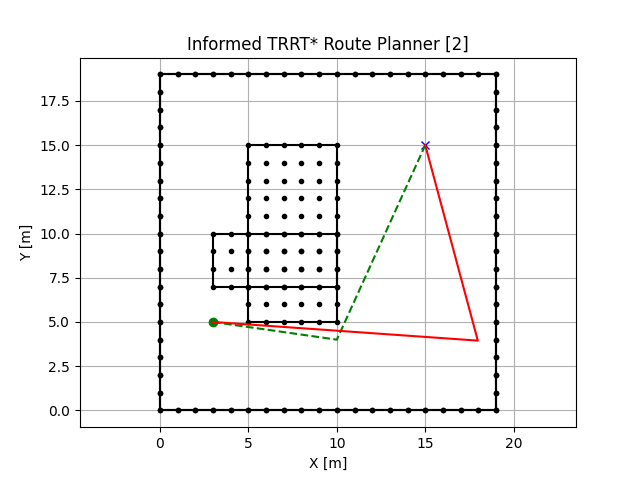
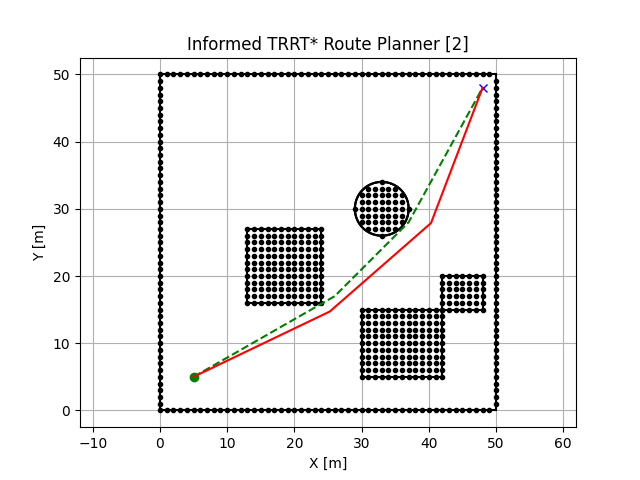
Add: map config file using conf option

diff --git a/map/fixed_grid_map.py b/map/fixed_grid_map.py
@@ -1,31 +1,52 @@
 import matplotlib.pyplot as plt
-import math  # Import math for square root calculations
+import math
+import argparse
+import json
 
 from map.grid_map import GridMap
 
 class FixedGridMap(GridMap):
-    def __init__(self, width=20, height=20):
+    def __init__(self, width=20, height=20, obstacles=None):
         super().__init__(width=width, height=height)
 
+        if obstacles:
+            for obstacle in obstacles:
+                if obstacle['type'] == 'rectangle':
+                    # obstacle['coordinates'] is expected to be a list of four numbers [min_x, min_y, max_x, max_y]
+                    coords = obstacle['coordinates']
+                    self.add_fixed_rectangle(coords[0], coords[1], coords[2], coords[3])
+                elif obstacle['type'] == 'circle':
+                    # obstacle['parameters'] is expected to be a list [center_x, center_y, radius]
+                    params = obstacle['parameters']
+                    self.add_fixed_circle(params[0], params[1], params[2])
+                else:
+                    print(f"Unknown obstacle type: {obstacle['type']}")
+        else:
+            # Default obstacles if no configuration is provided
+            self.add_fixed_rectangle(13, 16, 24, 27)
+            self.add_fixed_rectangle(30, 5, 42, 15)
+            self.add_fixed_rectangle(42, 15, 48, 20)
+            self.add_fixed_circle(33, 30, 4)
+
     def add_fixed_rectangle(self, min_x, min_y, max_x, max_y):
-        # 장애물 좌표 추가
+        # Add obstacle coordinates
         fixed_obstacles = [
             [(x, y) for x in range(min_x, max_x + 1) for y in range(min_y, max_y + 1)]
         ]
         
-        # 장애물 위치를 grid와 obstacles 리스트에 추가
+        # Add obstacle positions to grid and obstacles list
         for group in fixed_obstacles:
             for x, y in group:
                 if 0 <= x < self.width and 0 <= y < self.height:
                     self.obstacles.append((x, y))
                     self.grid[y][x] = 1
         
-        # 장애물 경계선 추가
+        # Add obstacle boundary lines
         box_lines = [
-            ((min_x, min_y), (max_x, min_y)),  # 상단 라인
-            ((min_x, max_y), (max_x, max_y)),  # 하단 라인
-            ((min_x, min_y), (min_x, max_y)),  # 좌측 라인
-            ((max_x, min_y), (max_x, max_y)),  # 우측 라인
+            ((min_x, min_y), (max_x, min_y)),  # Top line
+            ((min_x, max_y), (max_x, max_y)),  # Bottom line
+            ((min_x, min_y), (min_x, max_y)),  # Left line
+            ((max_x, min_y), (max_x, max_y)),  # Right line
         ]
         self.obstacle_lines.extend(box_lines)
         
@@ -38,8 +59,8 @@ class FixedGridMap(GridMap):
         self.circular_obstacles.append((center_x, center_y, radius))
         
         # Add the circle to the grid
-        for x in range(center_x - radius, center_x + radius + 1):
-            for y in range(center_y - radius, center_y + radius + 1):
+        for x in range(int(center_x - radius), int(center_x + radius + 1)):
+            for y in range(int(center_y - radius), int(center_y + radius + 1)):
                 if 0 <= x < self.width and 0 <= y < self.height:
                     distance = math.sqrt((x - center_x) ** 2 + (y - center_y) ** 2)
                     if distance <= radius:
@@ -59,15 +80,25 @@ class FixedGridMap(GridMap):
             self.obstacle_lines.append((points[i], points[(i + 1) % len(points)]))
 
 if __name__ == "__main__":
-    map_instance = FixedGridMap(width=50, height=50)
-    # Add rectangular obstacles
-    map_instance.add_fixed_rectangle(13, 16, 24, 27)
-    map_instance.add_fixed_rectangle(30, 5, 42, 15)
-    map_instance.add_fixed_rectangle(42, 15, 48, 20)
-    
-    # Add circular obstacles
-    map_instance.add_fixed_circle(center_x=33, center_y=30, radius=4)
+    parser = argparse.ArgumentParser(description='Generate Fixed Grid Map with obstacles.')
+    parser.add_argument('--conf', help='Path to configuration JSON file', default=None)
+    args = parser.parse_args()
 
+    if args.conf:
+        # Read the JSON file and extract parameters
+        with open(args.conf, 'r') as f:
+            config = json.load(f)
+
+        width = config.get('width', 50)
+        height = config.get('height', 50)
+        obstacles = config.get('obstacles', [])
+    else:
+        # Use default parameters
+        width = 50
+        height = 50
+        obstacles = None  # Will trigger default obstacles in the class
+
+    map_instance = FixedGridMap(width=width, height=height, obstacles=obstacles)
     map_instance.plot_map(title="Fixed Grid Map")
-    plt.savefig("results/map_fixed_grid_map.png")
+    plt.savefig("results/map_fixedgrid.png")
     plt.show()

diff --git a/test/test_speed_route_planner.py b/test/test_speed_route_planner.py
@@ -1,6 +1,6 @@
 import argparse
 import time
-import math
+import json
 import matplotlib.pyplot as plt
 
 from map.parking_lot import ParkingLot
@@ -20,7 +20,26 @@ from route_planner.informed_trrt_star_planner import InformedTRRTStar
 def main():
     parser = argparse.ArgumentParser(description="Adaptive MPC Route Planner with configurable map, route planner, and controller.")
     parser.add_argument('--map', type=str, default='fixed_grid', choices=['parking_lot', 'fixed_grid', 'random_grid'], help='Choose the map type.')
+    parser.add_argument('--conf', help='Path to configuration JSON file', default=None)
     args = parser.parse_args()
+
+    if args.conf:
+        # Read the JSON file and extract parameters
+        with open(args.conf, 'r') as f:
+            config = json.load(f)
+
+        start_pose = Pose(config['start_pose'][0], config['start_pose'][1], config['start_pose'][2])
+        goal_pose = Pose(config['goal_pose'][0], config['goal_pose'][1], config['goal_pose'][2])
+        width = config.get('width', 50)
+        height = config.get('height', 50)
+        obstacles = config.get('obstacles', [])
+    else:
+        # Use default parameters
+        width = 50
+        height = 50
+        start_pose = Pose(2, 2, 0)
+        goal_pose = Pose(width - 5, height - 5, 0)
+        obstacles = None  # Will trigger default obstacles in the class
 
     # Map selection using dictionary
     map_options = {
@@ -28,15 +47,9 @@ def main():
         'fixed_grid': FixedGridMap,
         'random_grid': RandomGridMap
     }
-    map_instance = map_options[args.map]()
+    map_instance = map_options[args.map](width, height, obstacles)
 
-    if args.map == "parking_lot":
-        start_pose = Pose(14.0, 4.0, math.radians(0))
-        goal_pose = Pose(50.0, 38.0, math.radians(90))
-    elif args.map == "fixed_grid":
-        start_pose = Pose(3, 5, math.radians(0))
-        goal_pose = Pose(15, 15, math.radians(0))
-    else:
+    if args.map == "random_grid":
         start_pose = map_instance.get_random_valid_start_position()
         goal_pose = map_instance.get_random_valid_goal_position()
     print(f"Start planning (start {start_pose.x, start_pose.y}, end {goal_pose.x, goal_pose.y})")

diff --git a/test/test_speed_controller.py b/test/test_speed_controller.py
@@ -1,5 +1,6 @@
 import argparse
 import time
+import json
 import matplotlib.pyplot as plt
 
 from utils import transform_trajectory_with_angles
@@ -22,7 +23,26 @@ from controller.stanley_controller import StanleyController
 def main():
     parser = argparse.ArgumentParser(description="Controller Speed Test with Informed TRRT* Route Planner.")
     parser.add_argument('--map', type=str, default='fixed_grid', choices=['parking_lot', 'fixed_grid', 'random_grid'], help='Choose the map type.')
+    parser.add_argument('--conf', help='Path to configuration JSON file', default=None)
     args = parser.parse_args()
+
+    if args.conf:
+        # Read the JSON file and extract parameters
+        with open(args.conf, 'r') as f:
+            config = json.load(f)
+
+        start_pose = Pose(config['start_pose'][0], config['start_pose'][1], config['start_pose'][2])
+        goal_pose = Pose(config['goal_pose'][0], config['goal_pose'][1], config['goal_pose'][2])
+        width = config.get('width', 50)
+        height = config.get('height', 50)
+        obstacles = config.get('obstacles', [])
+    else:
+        # Use default parameters
+        width = 50
+        height = 50
+        start_pose = Pose(2, 2, 0)
+        goal_pose = Pose(width - 5, height - 5, 0)
+        obstacles = None  # Will trigger default obstacles in the class
 
     # Map selection using dictionary
     map_options = {
@@ -30,15 +50,9 @@ def main():
         'fixed_grid': FixedGridMap,
         'random_grid': RandomGridMap
     }
-    map_instance = map_options[args.map]()
+    map_instance = map_options[args.map](width, height, obstacles)
 
-    if args.map == "parking_lot":
-        start_pose = Pose(14.0, 4.0, 0)
-        goal_pose = Pose(50.0, 38.0, 1.57)
-    elif args.map == "fixed_grid":
-        start_pose = Pose(3, 5, 0)
-        goal_pose = Pose(15, 15, 0)
-    else:
+    if args.map == "random_grid":
         start_pose = map_instance.get_random_valid_start_position()
         goal_pose = map_instance.get_random_valid_goal_position()
     print(f"Start planning (start {start_pose.x, start_pose.y}, end {goal_pose.x, goal_pose.y})")

diff --git a/map/random_grid_map.py b/map/random_grid_map.py
@@ -7,7 +7,7 @@ from map.grid_map import GridMap
 from route_planner.geometry import Pose
 
 class RandomGridMap(GridMap):
-    def __init__(self, width=82, height=63):
+    def __init__(self, width=82, height=63, obstacles=None):
         super().__init__(width=width, height=height)
         # 장애물 생성 (맵 크기에 비례하여 장애물 수 결정)
         self.create_random_obstacles()
@@ -59,5 +59,5 @@ if __name__ == "__main__":
     map_instance = RandomGridMap(width=100, height=80)
     map_instance.plot_map(title="Random Grid Map")
 
-    plt.savefig("results/map_random_grid_map.png")
+    plt.savefig("results/map_randomgrid.png")
     plt.show()

diff --git a/map/grid_map.py b/map/grid_map.py
@@ -5,7 +5,7 @@ import math
 from route_planner.geometry import Pose
 
 class GridMap:
-    def __init__(self, width=82, height=63):
+    def __init__(self, width=82, height=63, obstacles=None):
         self.width = width
         self.height = height
         self.grid = [[0 for _ in range(self.width + 1)] for _ in range(self.height + 1)]
@@ -194,5 +194,5 @@ if __name__ == "__main__":
     map_instance = GridMap(width=100, height=80)
     map_instance.plot_map(title="Base Grid Map")
 
-    plt.savefig("results/map_grid_map.png")
+    plt.savefig("results/map_grid.png")
     plt.show()
